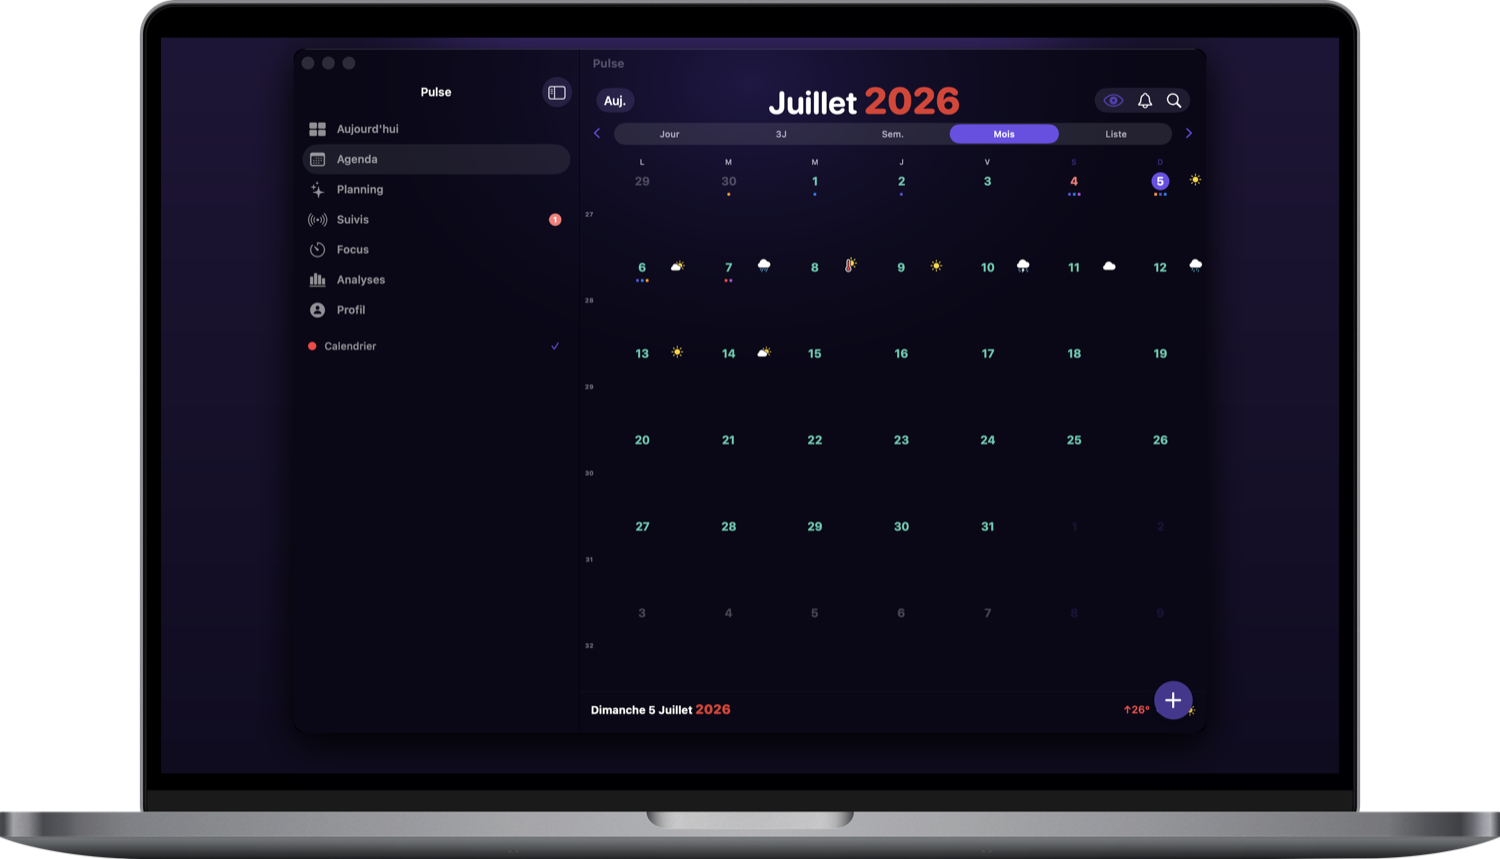
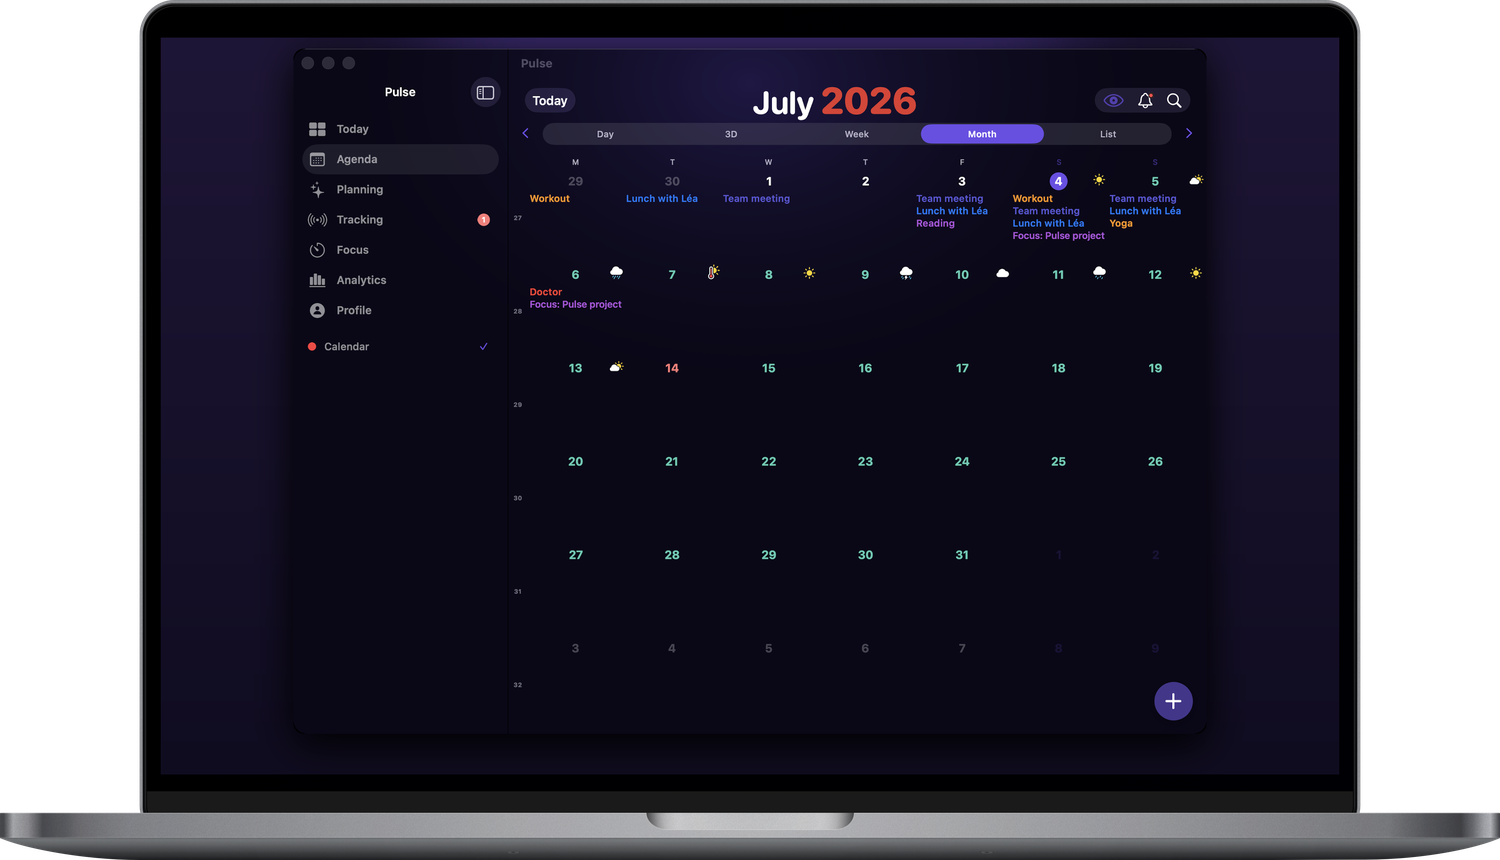
Site : screenshot iPad « Aujourd'hui » localisé (9 langues) + Mac Mois par langue
- iPad device = dashboard Aujourd'hui (données démo : events, météo, focus,
  répartition) au lieu de la vue Semaine, en 9 langues (fr/en/de/es/ja/ko/ar/ru/zh-Hans)
- Mac device = vue Mois localisée par langue
- screens-i18n.js : swap dev-mac/dev-ipad par langue (bloc dédié, repli anglais)
- index.html : ?v=3 device + ?v=4 localizer + alt corrigés (MacBook Pro, Aujourd'hui)

diff --git a/index.html b/index.html
@@ -1324,7 +1324,7 @@
 <!-- ===== i18n : traduction runtime + sélecteur de langue (drapeaux) ===== -->
 <script defer src="shared/i18n-data.js?v=8"></script>
 <script defer src="shared/i18n.js"></script>
-<script defer src="shared/screens-i18n.js?v=3"></script>
+<script defer src="shared/screens-i18n.js?v=4"></script>
 </head>
 <body>
 
@@ -1421,8 +1421,8 @@
   </div>
   <div class="device-showcase reveal">
     <div class="device-glow"></div>
-    <img class="dev-mac" src="assets/screens/macbook-device.png?v=2" alt="PulseCalendar sur MacBook Air — vue Mois" loading="lazy" width="1500" height="860">
-    <img class="dev-ipad" src="assets/screens/ipad-device.png?v=2" alt="PulseCalendar sur iPad Pro — vue Mois" loading="lazy" width="760" height="992">
+    <img class="dev-mac" src="assets/screens/macbook-device.png?v=3" alt="PulseCalendar sur MacBook Pro — vue Mois" loading="lazy" width="1500" height="860">
+    <img class="dev-ipad" src="assets/screens/ipad-device.png?v=3" alt="PulseCalendar sur iPad Pro — Aujourd'hui" loading="lazy" width="760" height="992">
   </div>
   <div class="platforms-grid">
     <div class="platform-card available reveal">